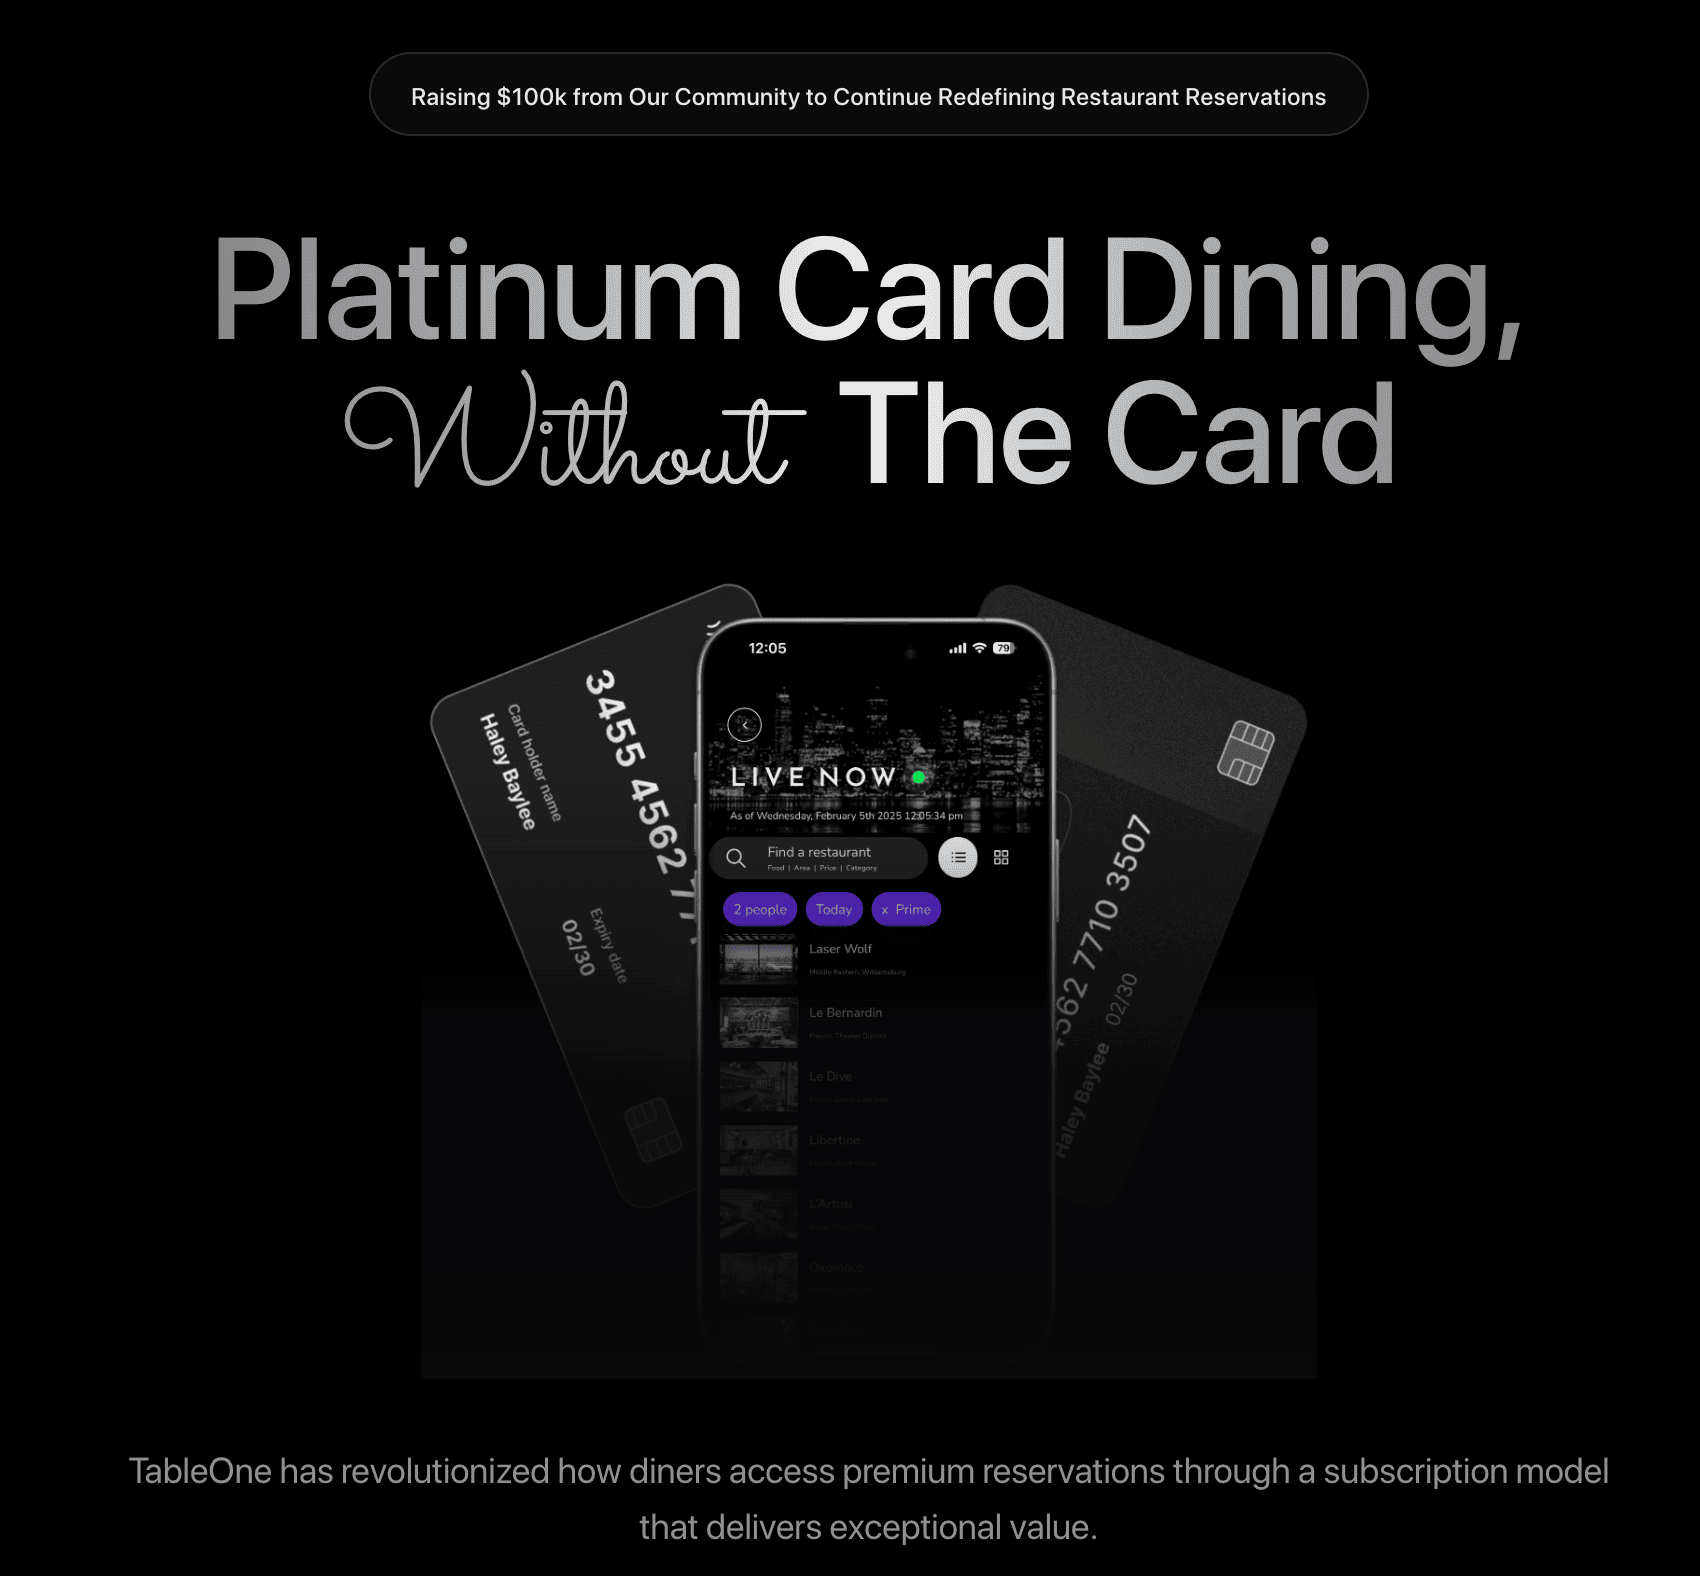
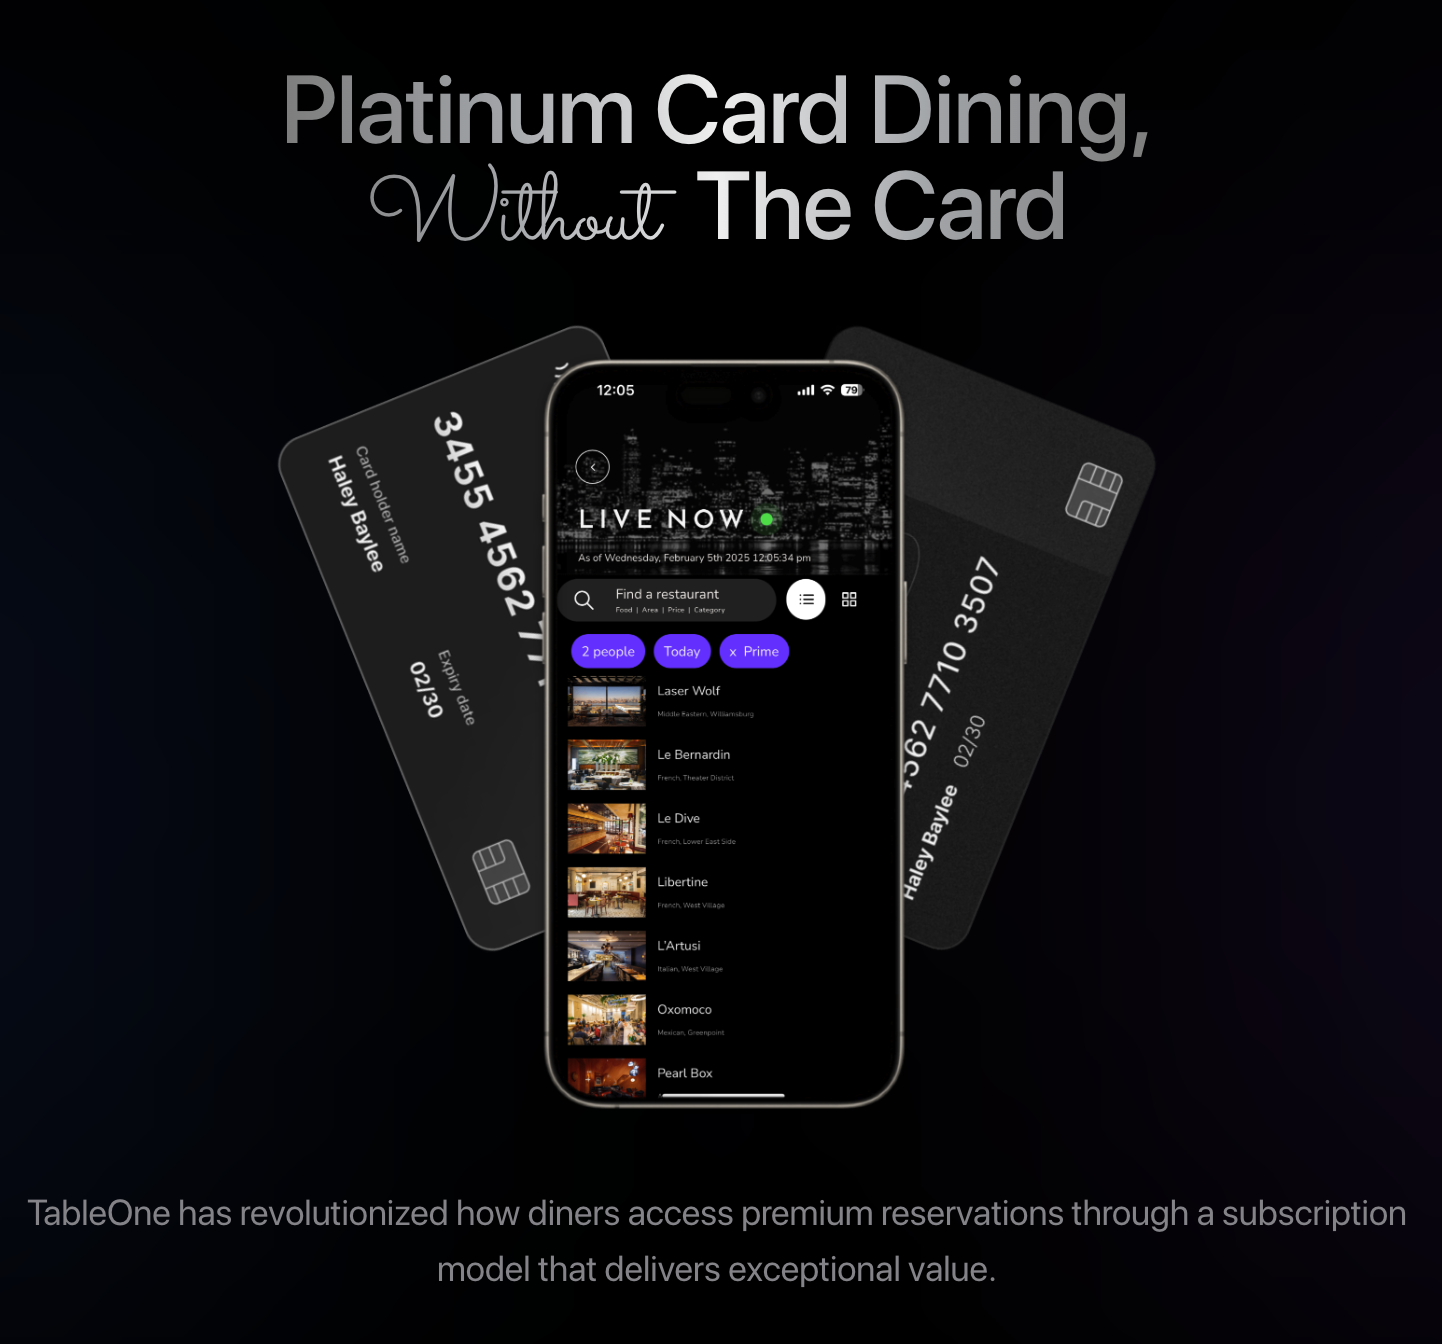
nice

Changed region(s): [[0.1248, 0.0312, 0.905, 0.8438], [0.0312, 0.875, 0.9674, 1.0]]

diff --git a/src/components/Hero.tsx b/src/components/Hero.tsx
@@ -35,7 +35,7 @@ const Hero: React.FC = () => {
           </h1>
 
           <div className="w-full max-w-md mb-8 opacity-0 animate-[fadeIn_0.8s_ease_forwards] relative" style={{ animationDelay: '0.7s' }}>
-            <div className="absolute inset-x-0 bottom-0 h-3/4 bg-gradient-to-t from-background via-background/90 to-transparent z-10"></div>
+            <div className="absolute inset-x-0 bottom-0 h-3/4 from-background via-background/90 to-transparent z-10"></div>
             <img
               src="/lovable-uploads/7c1bebd2-b8d9-4083-befc-a934acd41656.png"
               alt="TableOne App with Premium Cards"
